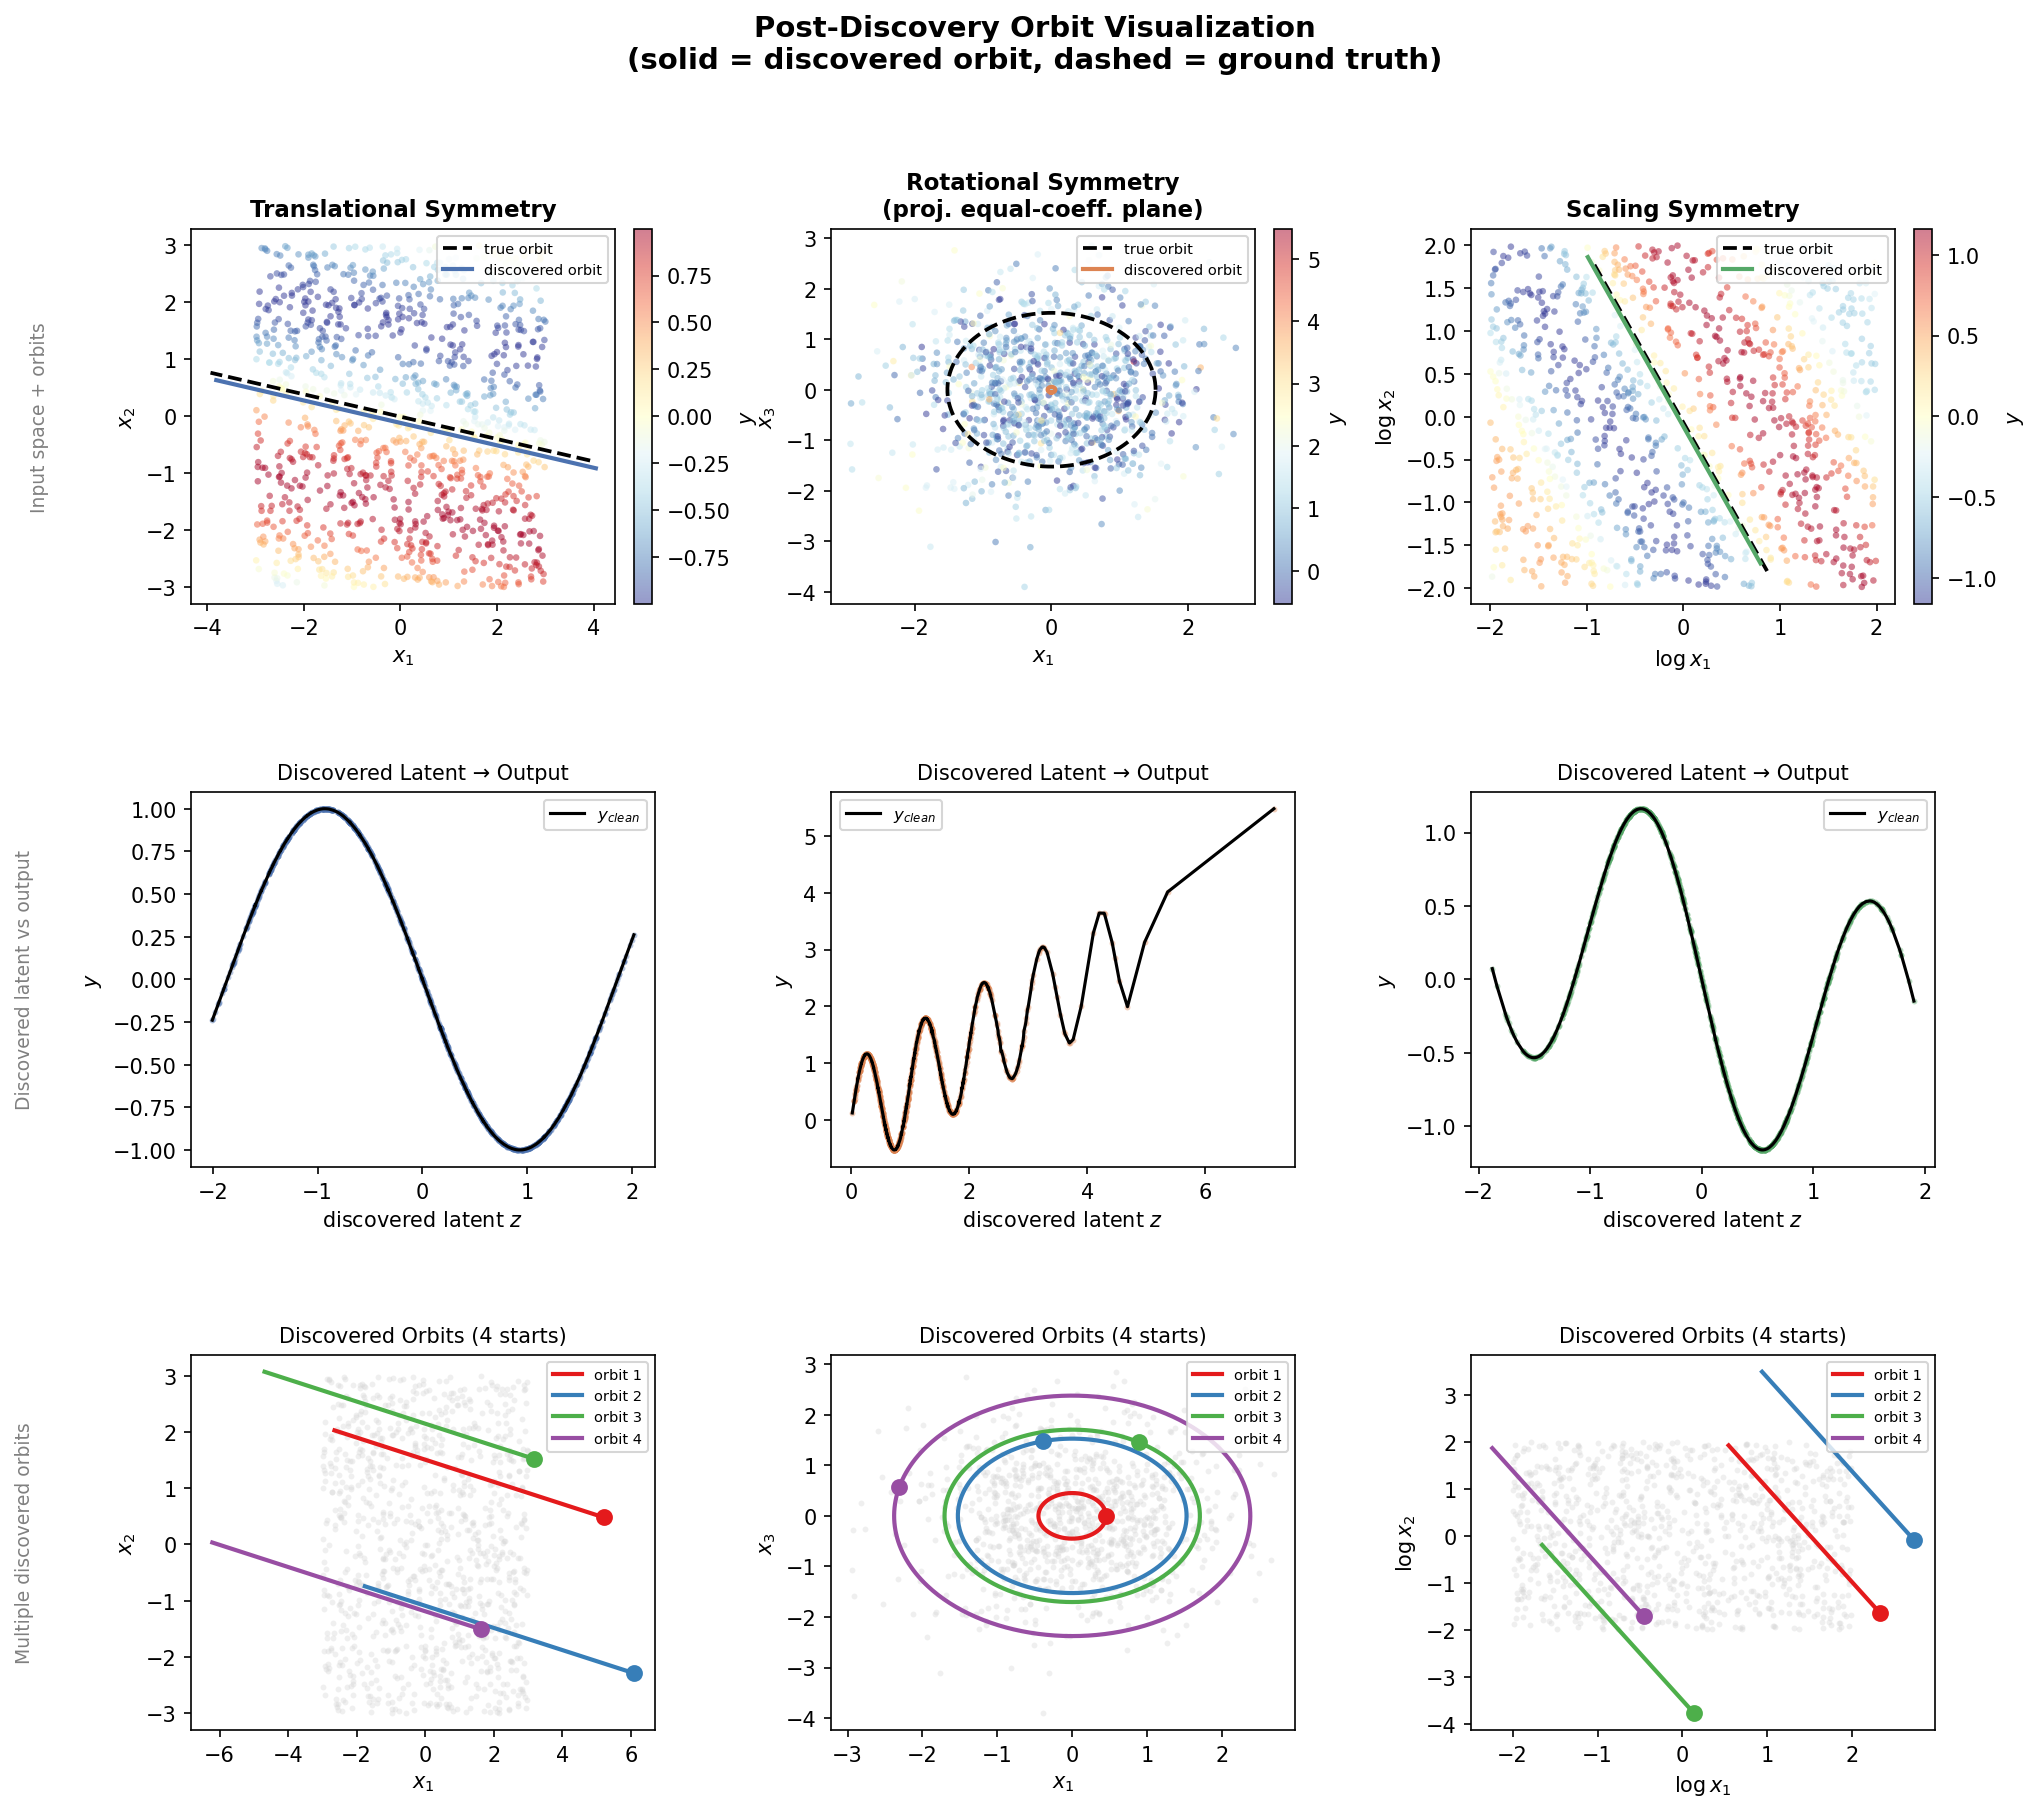
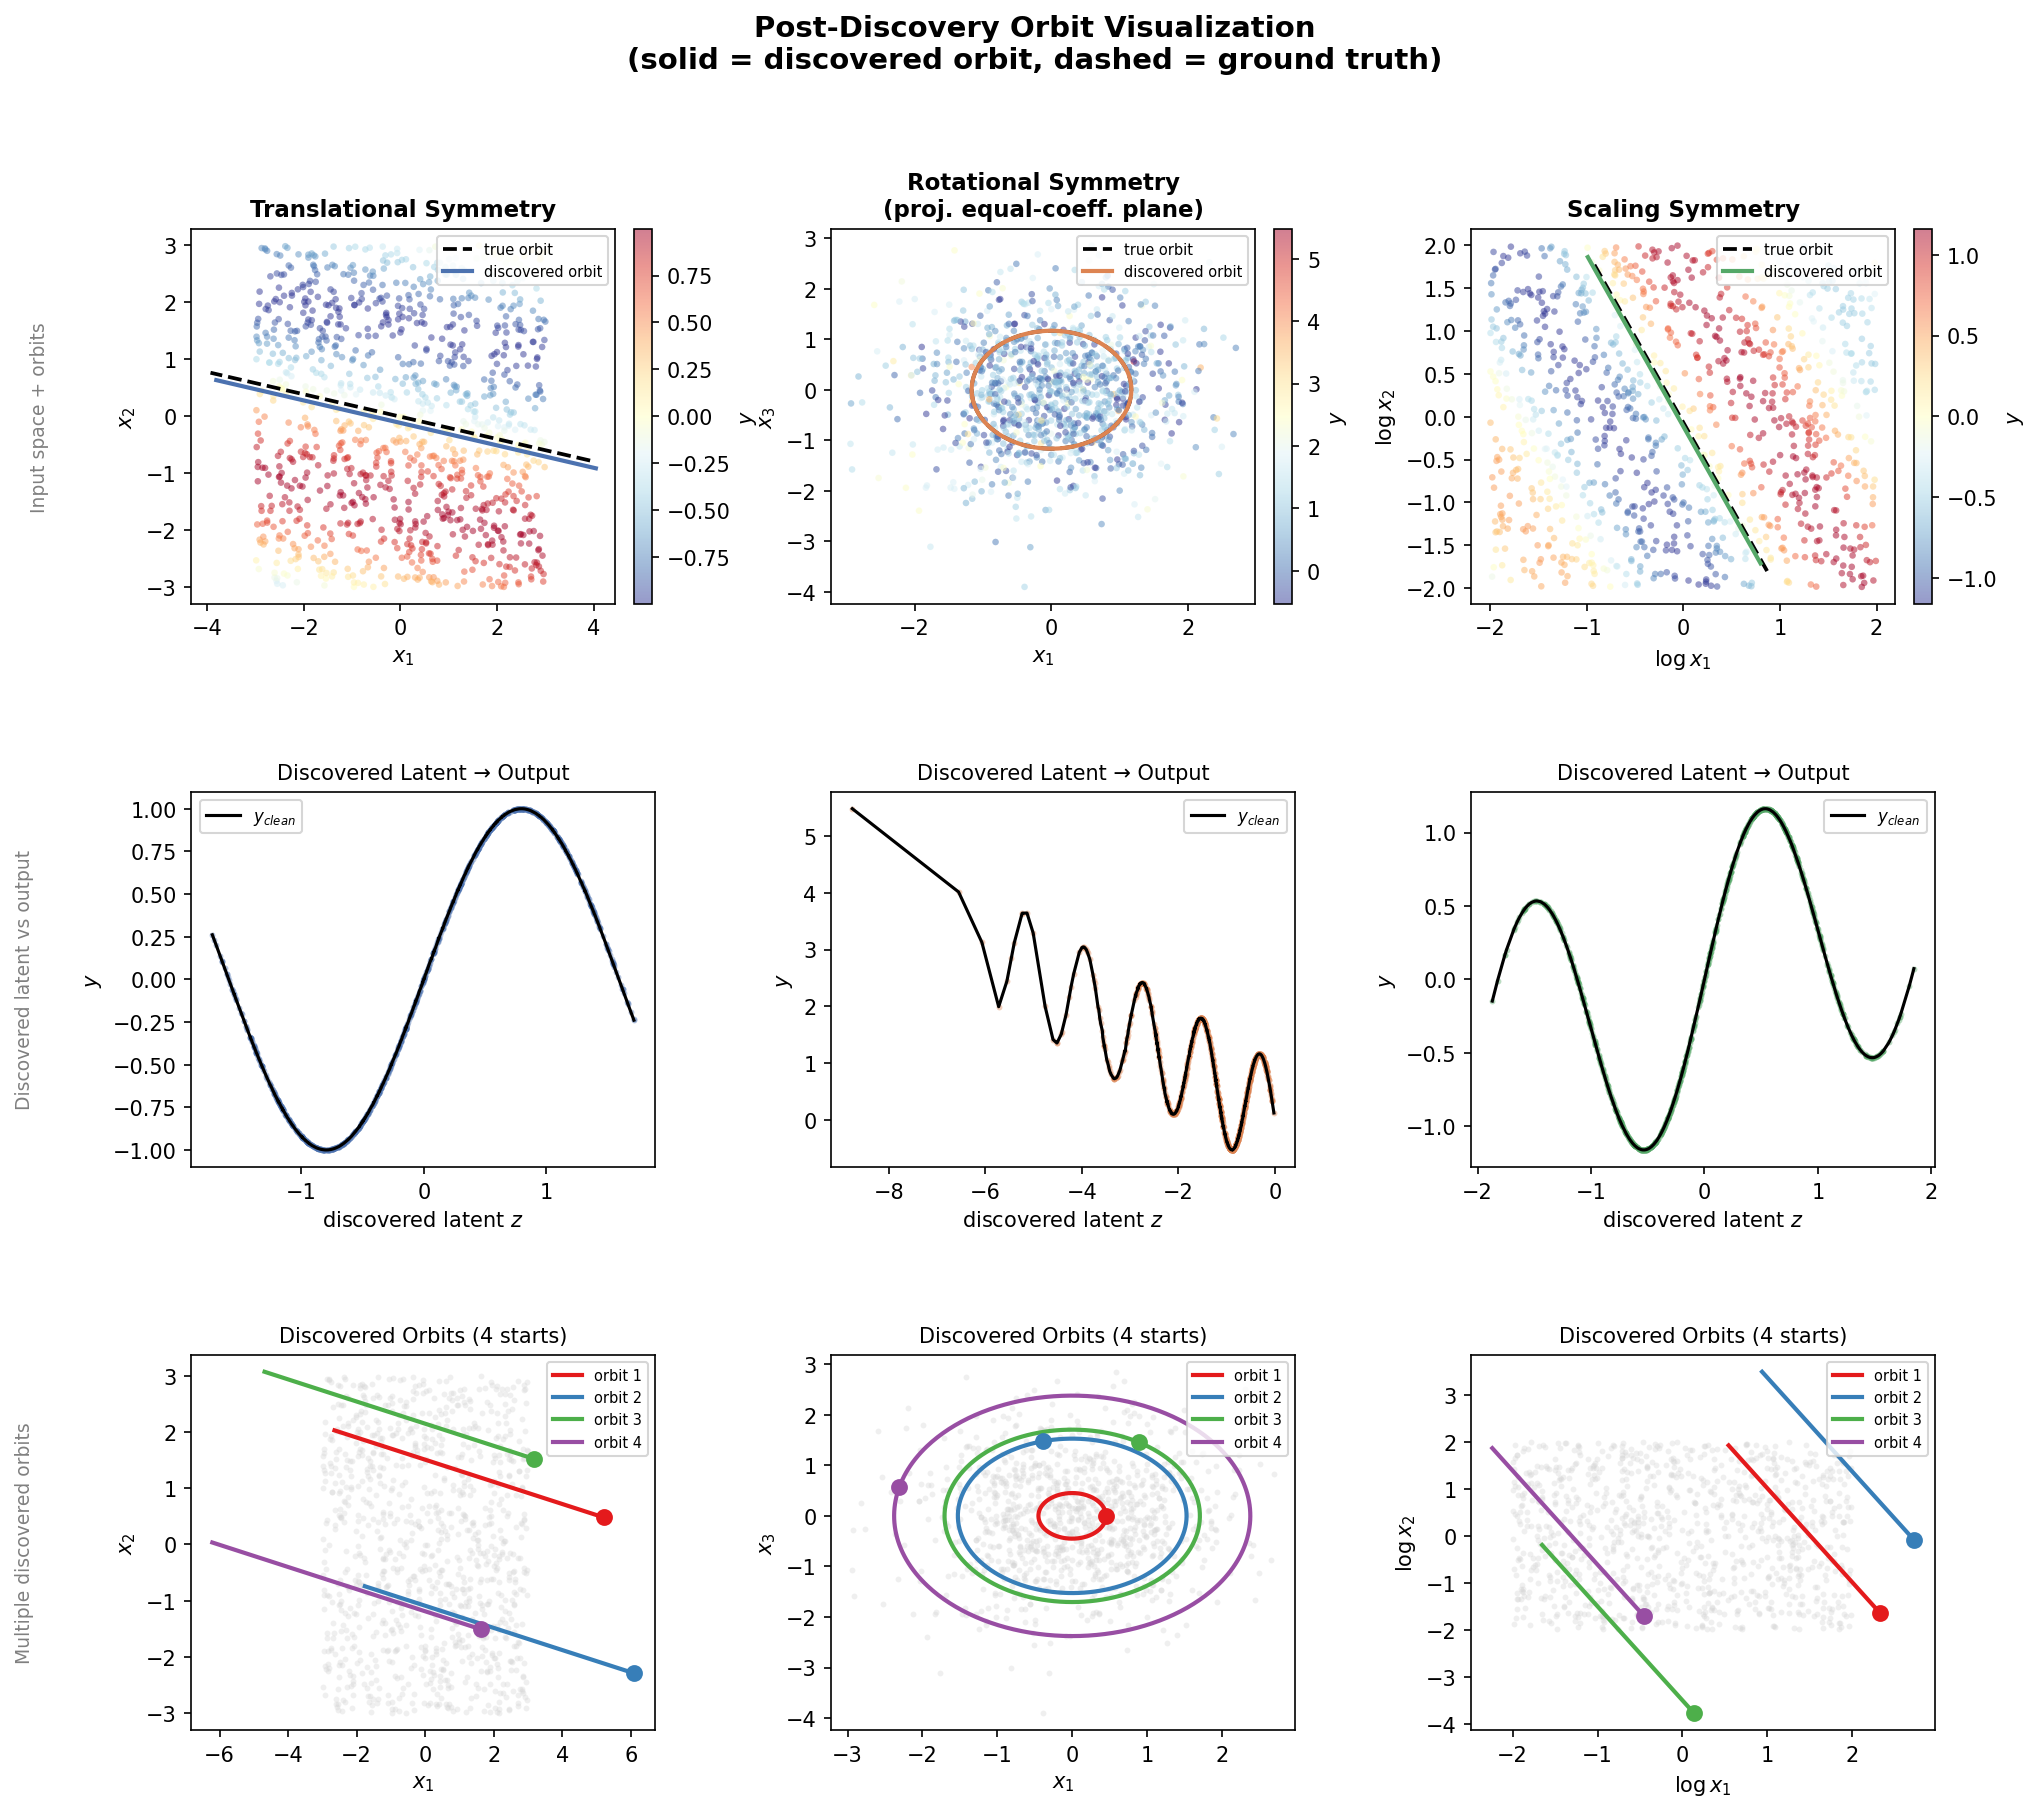
fix: correct rotational orbit radius mismatch in visualization
Two bugs caused the true and discovered orbits to have different radii:
1. _true_orbit_rot used median(total_r) - median(other_r), but median
   is not additive — fixed to use median of projected-plane radius directly.
2. _disc_orbit_single selected x_start by total r across all dims, but
   the plotted orbit only depends on the projected dims — fixed to select
   by projected-plane radius.

https://claude.ai/code/session_01VnyqyJkknsHa1QWY5Scxjj

diff --git a/projects/20260912_Stage1_Prokash/visualization/plot_discovered_orbits.py b/projects/20260912_Stage1_Prokash/visualization/plot_discovered_orbits.py
@@ -131,14 +131,11 @@ def _true_orbit_rot(data, d0=0, d1=2):
     """
     c   = np.array(data["coefficients"])   # shape (n_inputs,)
     X   = data["X"]
-    # Total radius value at median point
-    r_total = np.median((X ** 2) @ c)
-    # Contribution from the non-plotted dims (held at median)
-    other_dims = [i for i in range(X.shape[1]) if i not in (d0, d1)]
-    r_other = float(np.median(
-        np.sum(c[other_dims] * X[:, other_dims] ** 2, axis=1)
-    )) if other_dims else 0.0
-    r_sub = max(r_total - r_other, 1e-6)   # radius in the 2-D subspace
+    # Radius in the projected 2-D subspace: r_sub = c[d0]*x_{d0}^2 + c[d1]*x_{d1}^2
+    # We take the median of r_sub directly (not median(total) - median(other),
+    # which is incorrect because median is not additive).
+    r_sub_vals = c[d0] * X[:, d0] ** 2 + c[d1] * X[:, d1] ** 2
+    r_sub = max(float(np.median(r_sub_vals)), 1e-6)
     # c[d0] == c[d1]  →  circle
     theta = np.linspace(0, 2 * np.pi, 400)
     return (np.sqrt(r_sub / c[d0]) * np.cos(theta),
@@ -175,10 +172,12 @@ def _disc_orbit_single(sym, data, x_start=None, n_steps=400):
         if sym == "rotational":
             # X is standard-normal → coordinate-wise median ≈ 0, which makes
             # every rotation expm(k·ε·A) @ x_start ≈ 0 (collapsed orbit).
-            # Instead pick the sample whose r = Σ cᵢ·xᵢ² is closest to the
-            # median r — that point has a typical non-zero radius.
+            # Pick the sample whose *projected-plane* radius
+            # r_proj = c[d0]*x_{d0}^2 + c[d1]*x_{d1}^2 is closest to the
+            # median r_proj, so the discovered orbit matches the true orbit's
+            # radius in the plotted subspace.
             c = np.array(data["coefficients"])
-            r_vals = (data["X"] ** 2) @ c
+            r_vals = c[d0] * data["X"][:, d0] ** 2 + c[d1] * data["X"][:, d1] ** 2
             x_start = data["X"][np.argmin(np.abs(r_vals - np.median(r_vals)))]
         else:
             x_start = np.median(data["X"], axis=0)
